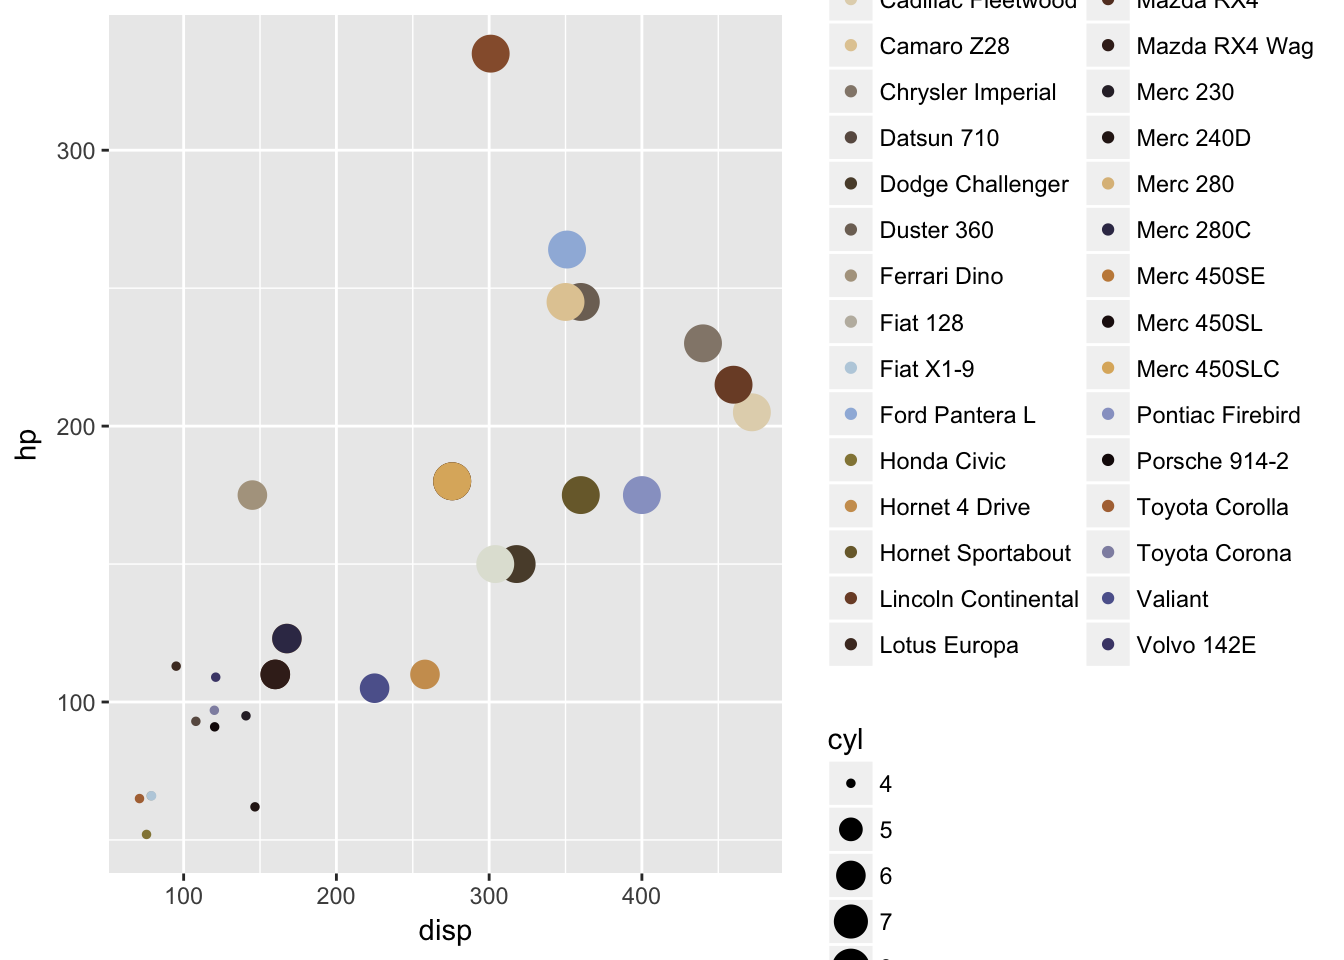
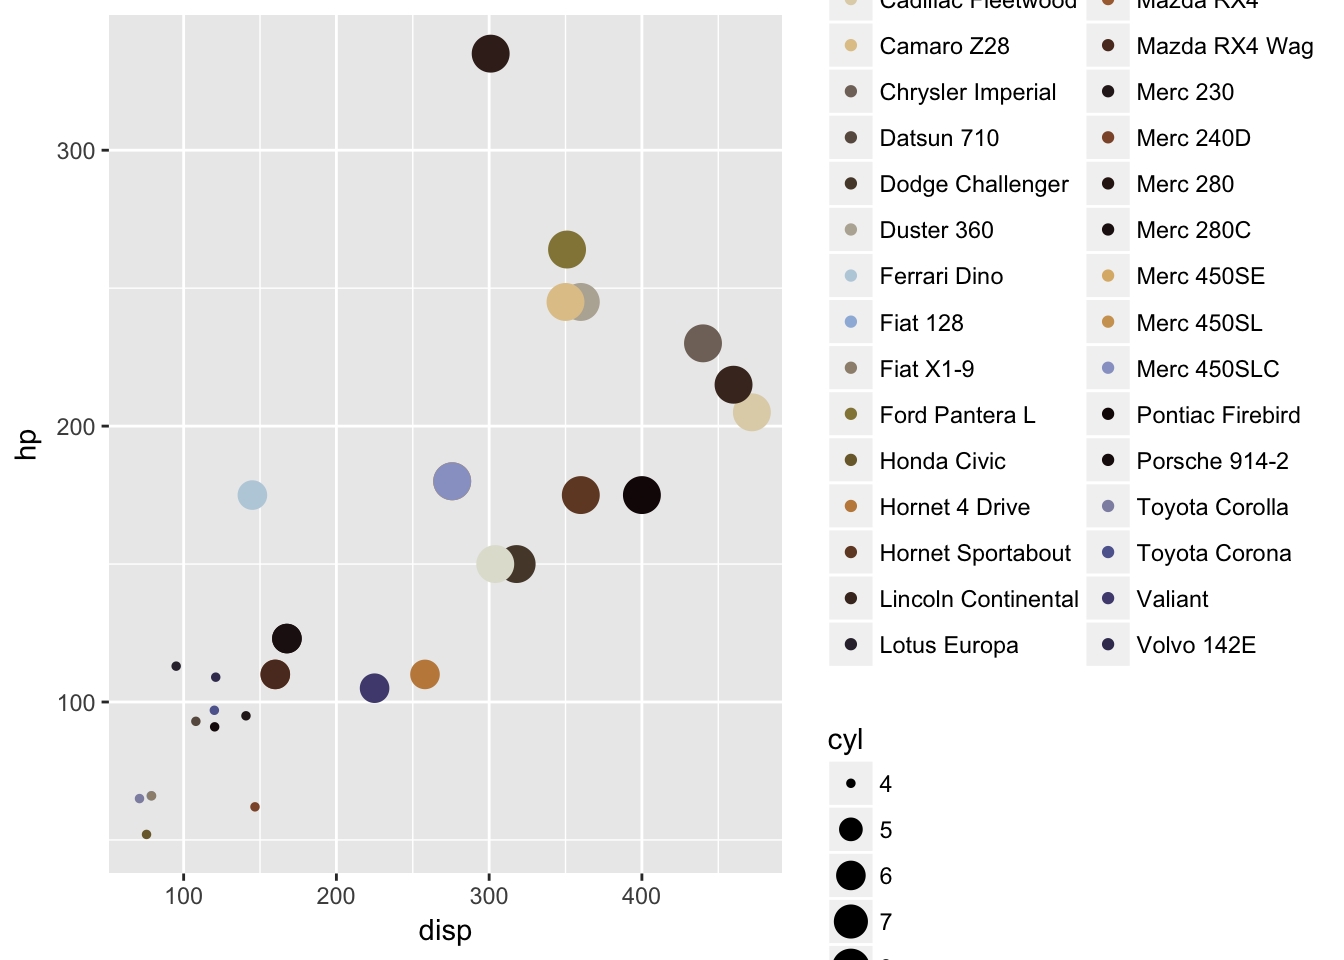
rendered

diff --git a/2_how_to_build_a_color_palette.html b/2_how_to_build_a_color_palette.html
@@ -392,17 +392,17 @@ painting_rgb &lt;- data.frame(
 <p>As you can see we applied the kmeans function passing as dimensions R G and B and a number of clusters equal to 30. We also specified 30 iterations as the maximum number of loops to try to converge. We now have a <em>k_means</em> object, what is its shape? let us investigate this running <em>str()</em> on it:</p>
 <pre class="r"><code>str(k_means)</code></pre>
 <pre><code>## List of 9
-##  $ cluster     : int [1:247950] 13 13 13 13 13 13 13 13 13 13 ...
-##  $ centers     : num [1:20, 1:3] 0.886 0.709 0.151 0.391 0.441 ...
+##  $ cluster     : int [1:247950] 16 16 16 16 16 16 16 16 16 16 ...
+##  $ centers     : num [1:20, 1:3] 0.24 0.165 0.875 0.769 0.54 ...
 ##   ..- attr(*, &quot;dimnames&quot;)=List of 2
 ##   .. ..$ : chr [1:20] &quot;1&quot; &quot;2&quot; &quot;3&quot; &quot;4&quot; ...
 ##   .. ..$ : chr [1:3] &quot;R&quot; &quot;G&quot; &quot;B&quot;
 ##  $ totss       : num 60652
-##  $ withinss    : num [1:20] 69.1 38.4 31.8 80.1 39.4 ...
-##  $ tot.withinss: num 1076
-##  $ betweenss   : num 59576
-##  $ size        : int [1:20] 17232 4944 22866 14914 6462 16025 9839 13414 20160 5930 ...
-##  $ iter        : int 9
+##  $ withinss    : num [1:20] 96.2 44.3 43.6 72.5 51.1 ...
+##  $ tot.withinss: num 1068
+##  $ betweenss   : num 59584
+##  $ size        : int [1:20] 21680 24116 10481 9804 7789 16788 10333 9886 12287 4700 ...
+##  $ iter        : int 7
 ##  $ ifault      : int 0
 ##  - attr(*, &quot;class&quot;)= chr &quot;kmeans&quot;</code></pre>
 </div>
@@ -462,6 +462,30 @@ labs(title = &quot;disp vs hp&quot;)</code></pre>
 <li>images placeholder: have you noticed that on google images the actual loading of the picture is preceeded from a coloured square filled with a colour representative of the incoming picture? we could do this with paletter, just specifying 1 when setting the number of colours</li>
 </ul>
 <p>Have you got any other idea? Feel free to comment here suggesting further developments or use cases.</p>
+<div id="disqus_thread">
+
+</div>
+<script>
+
+/**
+*  RECOMMENDED CONFIGURATION VARIABLES: EDIT AND UNCOMMENT THE SECTION BELOW TO INSERT DYNAMIC VALUES FROM YOUR PLATFORM OR CMS.
+*  LEARN WHY DEFINING THESE VARIABLES IS IMPORTANT: https://disqus.com/admin/universalcode/#configuration-variables*/
+/*
+var disqus_config = function () {
+this.page.url = PAGE_URL;  // Replace PAGE_URL with your page's canonical URL variable
+this.page.identifier = PAGE_IDENTIFIER; // Replace PAGE_IDENTIFIER with your page's unique identifier variable
+};
+*/
+(function() { // DON'T EDIT BELOW THIS LINE
+var d = document, s = d.createElement('script');
+s.src = 'https://lufiziodelocchio.disqus.com/embed.js';
+s.setAttribute('data-timestamp', +new Date());
+(d.head || d.body).appendChild(s);
+})();
+</script>
+<noscript>
+Please enable JavaScript to view the <a href="https://disqus.com/?ref_noscript">comments powered by Disqus.</a>
+</noscript>
 </div>
 </div>
 </div>

diff --git a/1_palette_post.html b/1_palette_post.html
@@ -346,11 +346,36 @@ install_github(&quot;andreacirilloac/paletteR&quot;)</code></pre>
 <pre class="r"><code>library(paletter)
 download.file(&quot;https://andreacirilloac.github.io/dataviz/images/sacra_famiglia_canigiani.jpg&quot;, &quot;image.jpg&quot;)
 colours_vector &lt;- palette_maker(&quot;image.jpg&quot;, number_of_colors = 32)</code></pre>
+<pre><code>## Warning: Quick-TRANSfer stage steps exceeded maximum (= 12397500)</code></pre>
 <p><img src="1_palette_post_files/figure-html/unnamed-chunk-1-1.png" width="672" /></p>
 <pre class="r"><code>ggplot(data = mtcars,aes(x = disp,y = hp, color = rownames(mtcars)))+
 geom_point(stat = &#39;identity&#39;,aes( size = cyl)) +
 scale_color_manual(values = colours_vector)</code></pre>
 <p><img src="1_palette_post_files/figure-html/unnamed-chunk-1-2.png" width="672" /></p>
+<div id="disqus_thread">
+
+</div>
+<script>
+
+/**
+*  RECOMMENDED CONFIGURATION VARIABLES: EDIT AND UNCOMMENT THE SECTION BELOW TO INSERT DYNAMIC VALUES FROM YOUR PLATFORM OR CMS.
+*  LEARN WHY DEFINING THESE VARIABLES IS IMPORTANT: https://disqus.com/admin/universalcode/#configuration-variables*/
+/*
+var disqus_config = function () {
+this.page.url = PAGE_URL;  // Replace PAGE_URL with your page's canonical URL variable
+this.page.identifier = PAGE_IDENTIFIER; // Replace PAGE_IDENTIFIER with your page's unique identifier variable
+};
+*/
+(function() { // DON'T EDIT BELOW THIS LINE
+var d = document, s = d.createElement('script');
+s.src = 'https://lufiziodelocchio.disqus.com/embed.js';
+s.setAttribute('data-timestamp', +new Date());
+(d.head || d.body).appendChild(s);
+})();
+</script>
+<noscript>
+Please enable JavaScript to view the <a href="https://disqus.com/?ref_noscript">comments powered by Disqus.</a>
+</noscript>
 </div>
 
 

diff --git a/palette_post.html b/palette_post.html
@@ -352,6 +352,30 @@ colours_vector &lt;- palette_maker(&quot;image.jpg&quot;, number_of_colors = 32)
 geom_point(stat = &#39;identity&#39;,aes( size = cyl)) +
 scale_color_manual(values = colours_vector)</code></pre>
 <p><img src="palette_post_files/figure-html/unnamed-chunk-1-2.png" width="672" /></p>
+<div id="disqus_thread">
+
+</div>
+<script>
+
+/**
+*  RECOMMENDED CONFIGURATION VARIABLES: EDIT AND UNCOMMENT THE SECTION BELOW TO INSERT DYNAMIC VALUES FROM YOUR PLATFORM OR CMS.
+*  LEARN WHY DEFINING THESE VARIABLES IS IMPORTANT: https://disqus.com/admin/universalcode/#configuration-variables*/
+/*
+var disqus_config = function () {
+this.page.url = PAGE_URL;  // Replace PAGE_URL with your page's canonical URL variable
+this.page.identifier = PAGE_IDENTIFIER; // Replace PAGE_IDENTIFIER with your page's unique identifier variable
+};
+*/
+(function() { // DON'T EDIT BELOW THIS LINE
+var d = document, s = d.createElement('script');
+s.src = 'https://lufiziodelocchio.disqus.com/embed.js';
+s.setAttribute('data-timestamp', +new Date());
+(d.head || d.body).appendChild(s);
+})();
+</script>
+<noscript>
+Please enable JavaScript to view the <a href="https://disqus.com/?ref_noscript">comments powered by Disqus.</a>
+</noscript>
 </div>
 
 

diff --git a/index.html b/index.html
@@ -310,30 +310,6 @@ div.tocify {
 </div>
 <div id="notes-and-sketches" class="section level1">
 <h1><a href="notes.html">notes and sketches</a></h1>
-<div id="disqus_thread">
-
-</div>
-<script>
-
-/**
-*  RECOMMENDED CONFIGURATION VARIABLES: EDIT AND UNCOMMENT THE SECTION BELOW TO INSERT DYNAMIC VALUES FROM YOUR PLATFORM OR CMS.
-*  LEARN WHY DEFINING THESE VARIABLES IS IMPORTANT: https://disqus.com/admin/universalcode/#configuration-variables*/
-/*
-var disqus_config = function () {
-this.page.url = PAGE_URL;  // Replace PAGE_URL with your page's canonical URL variable
-this.page.identifier = PAGE_IDENTIFIER; // Replace PAGE_IDENTIFIER with your page's unique identifier variable
-};
-*/
-(function() { // DON'T EDIT BELOW THIS LINE
-var d = document, s = d.createElement('script');
-s.src = 'https://lufiziodelocchio.disqus.com/embed.js';
-s.setAttribute('data-timestamp', +new Date());
-(d.head || d.body).appendChild(s);
-})();
-</script>
-<noscript>
-Please enable JavaScript to view the <a href="https://disqus.com/?ref_noscript">comments powered by Disqus.</a>
-</noscript>
 </div>
 
 
